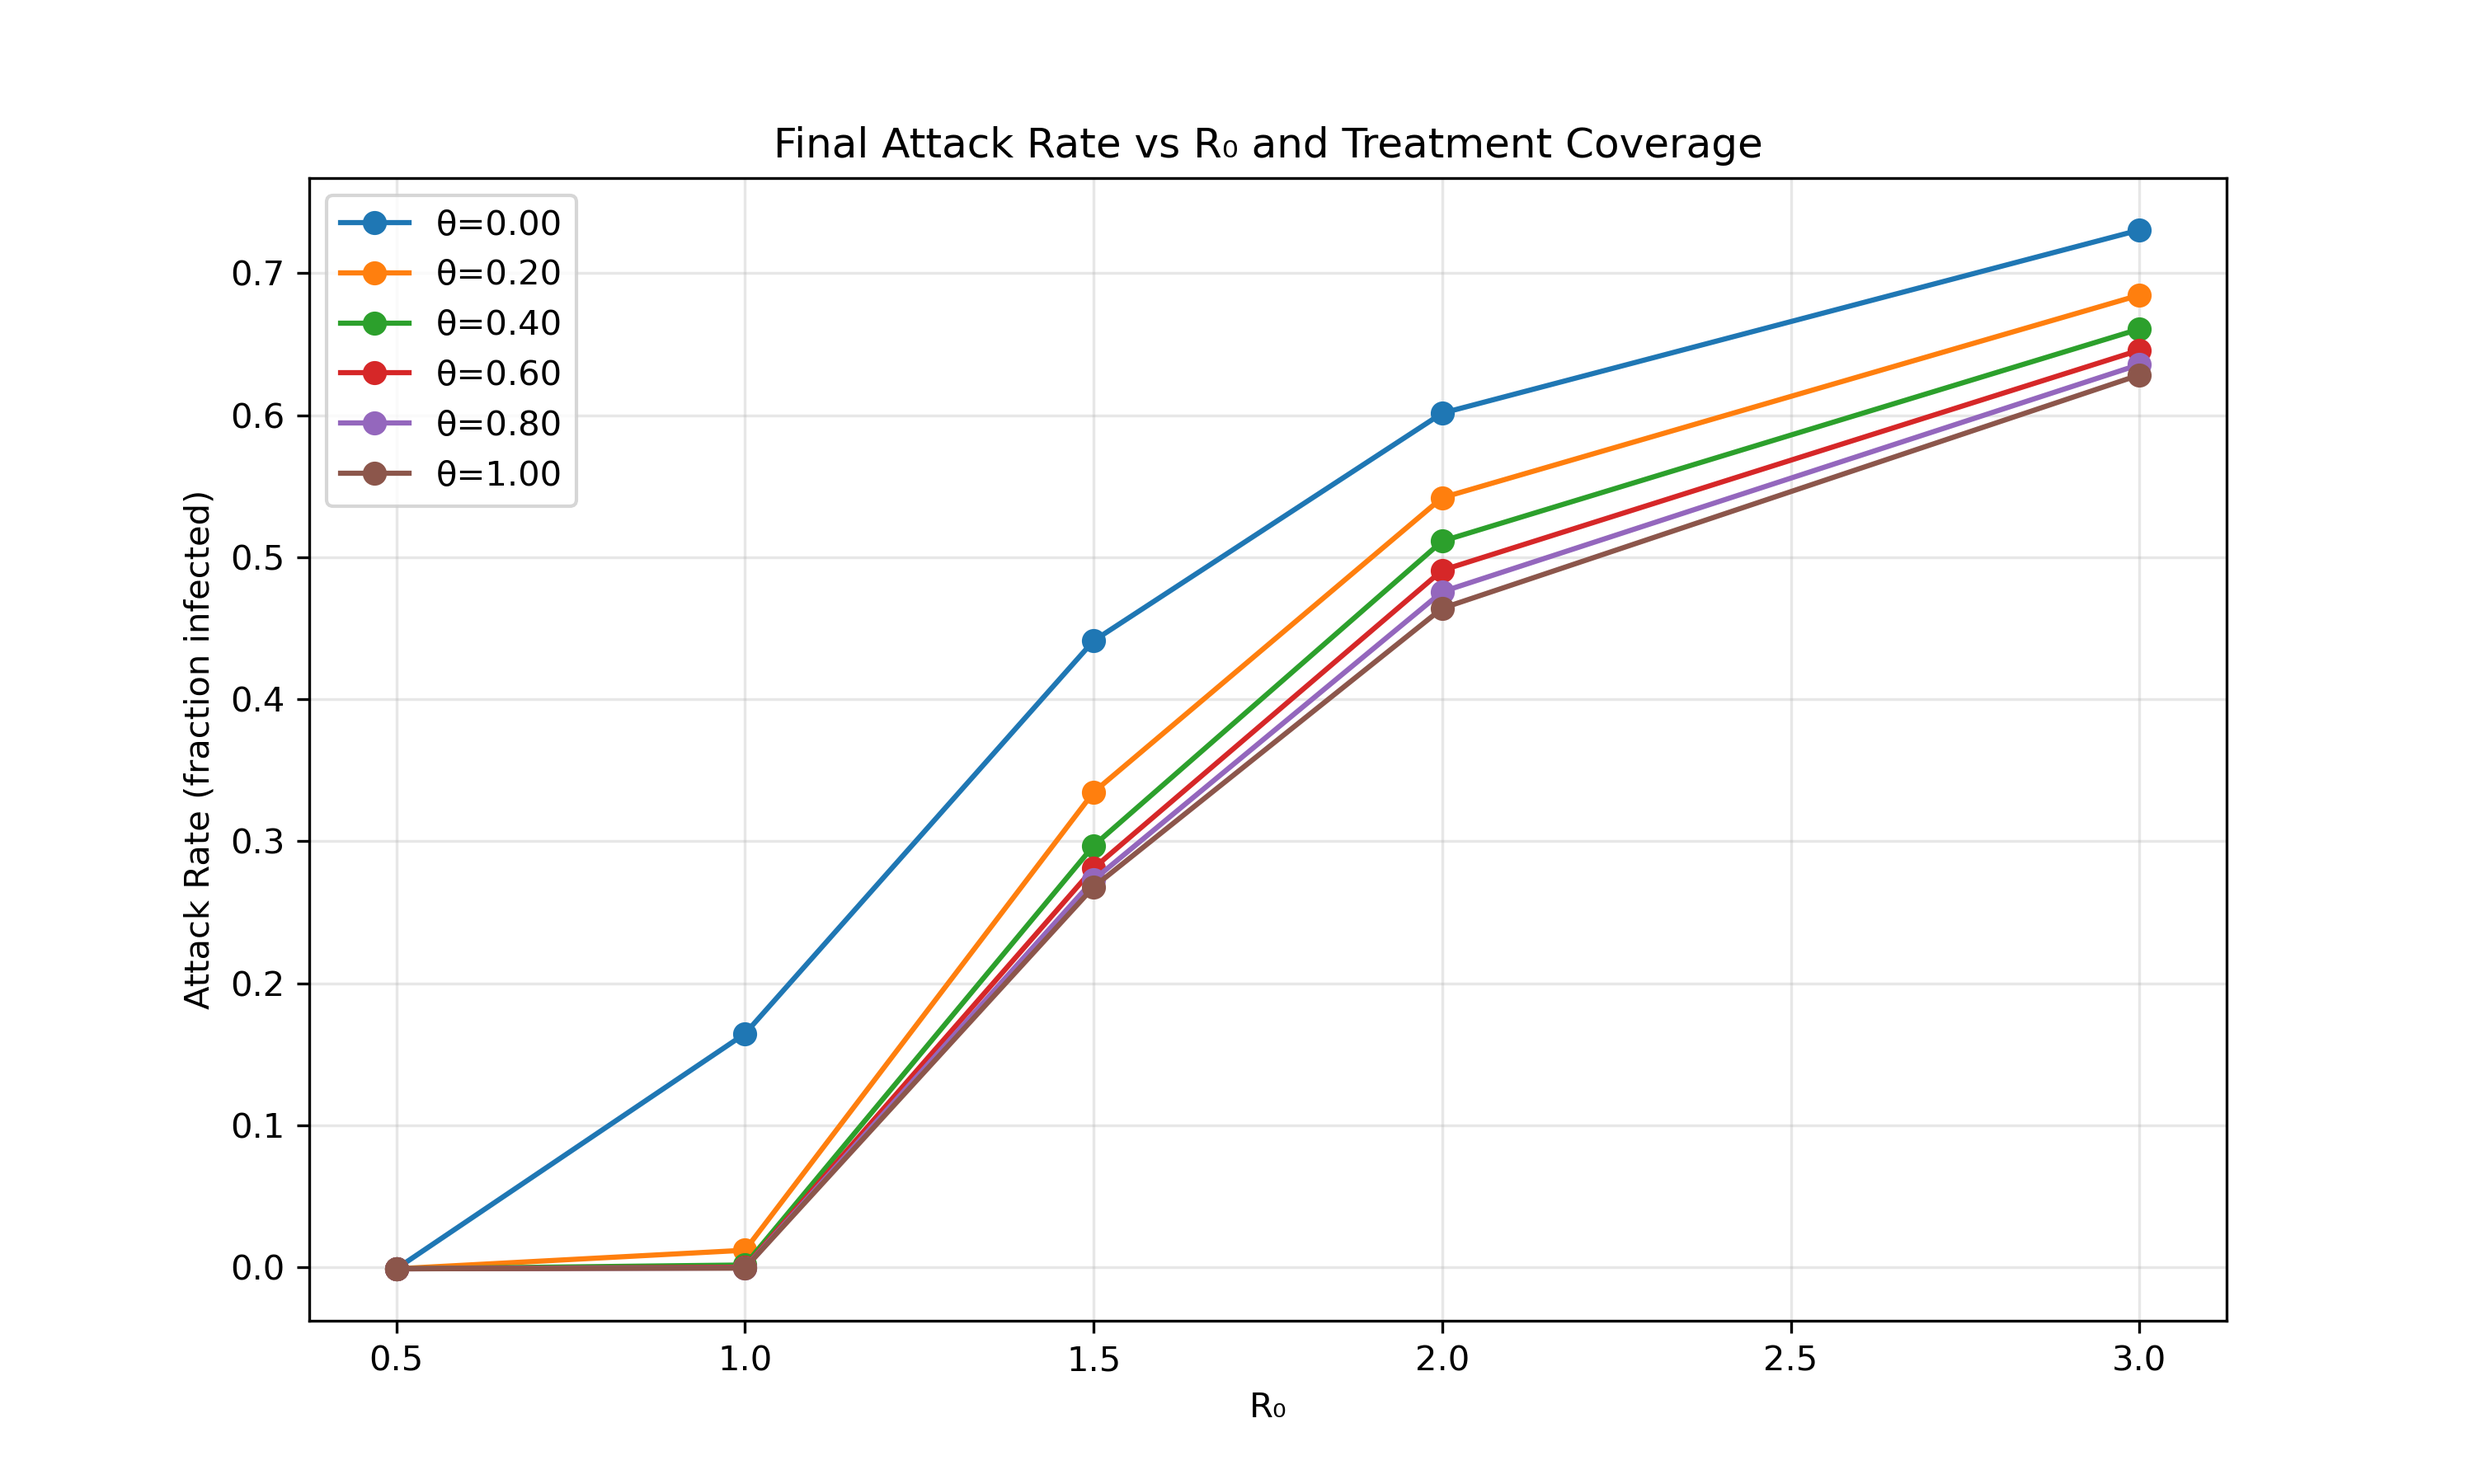
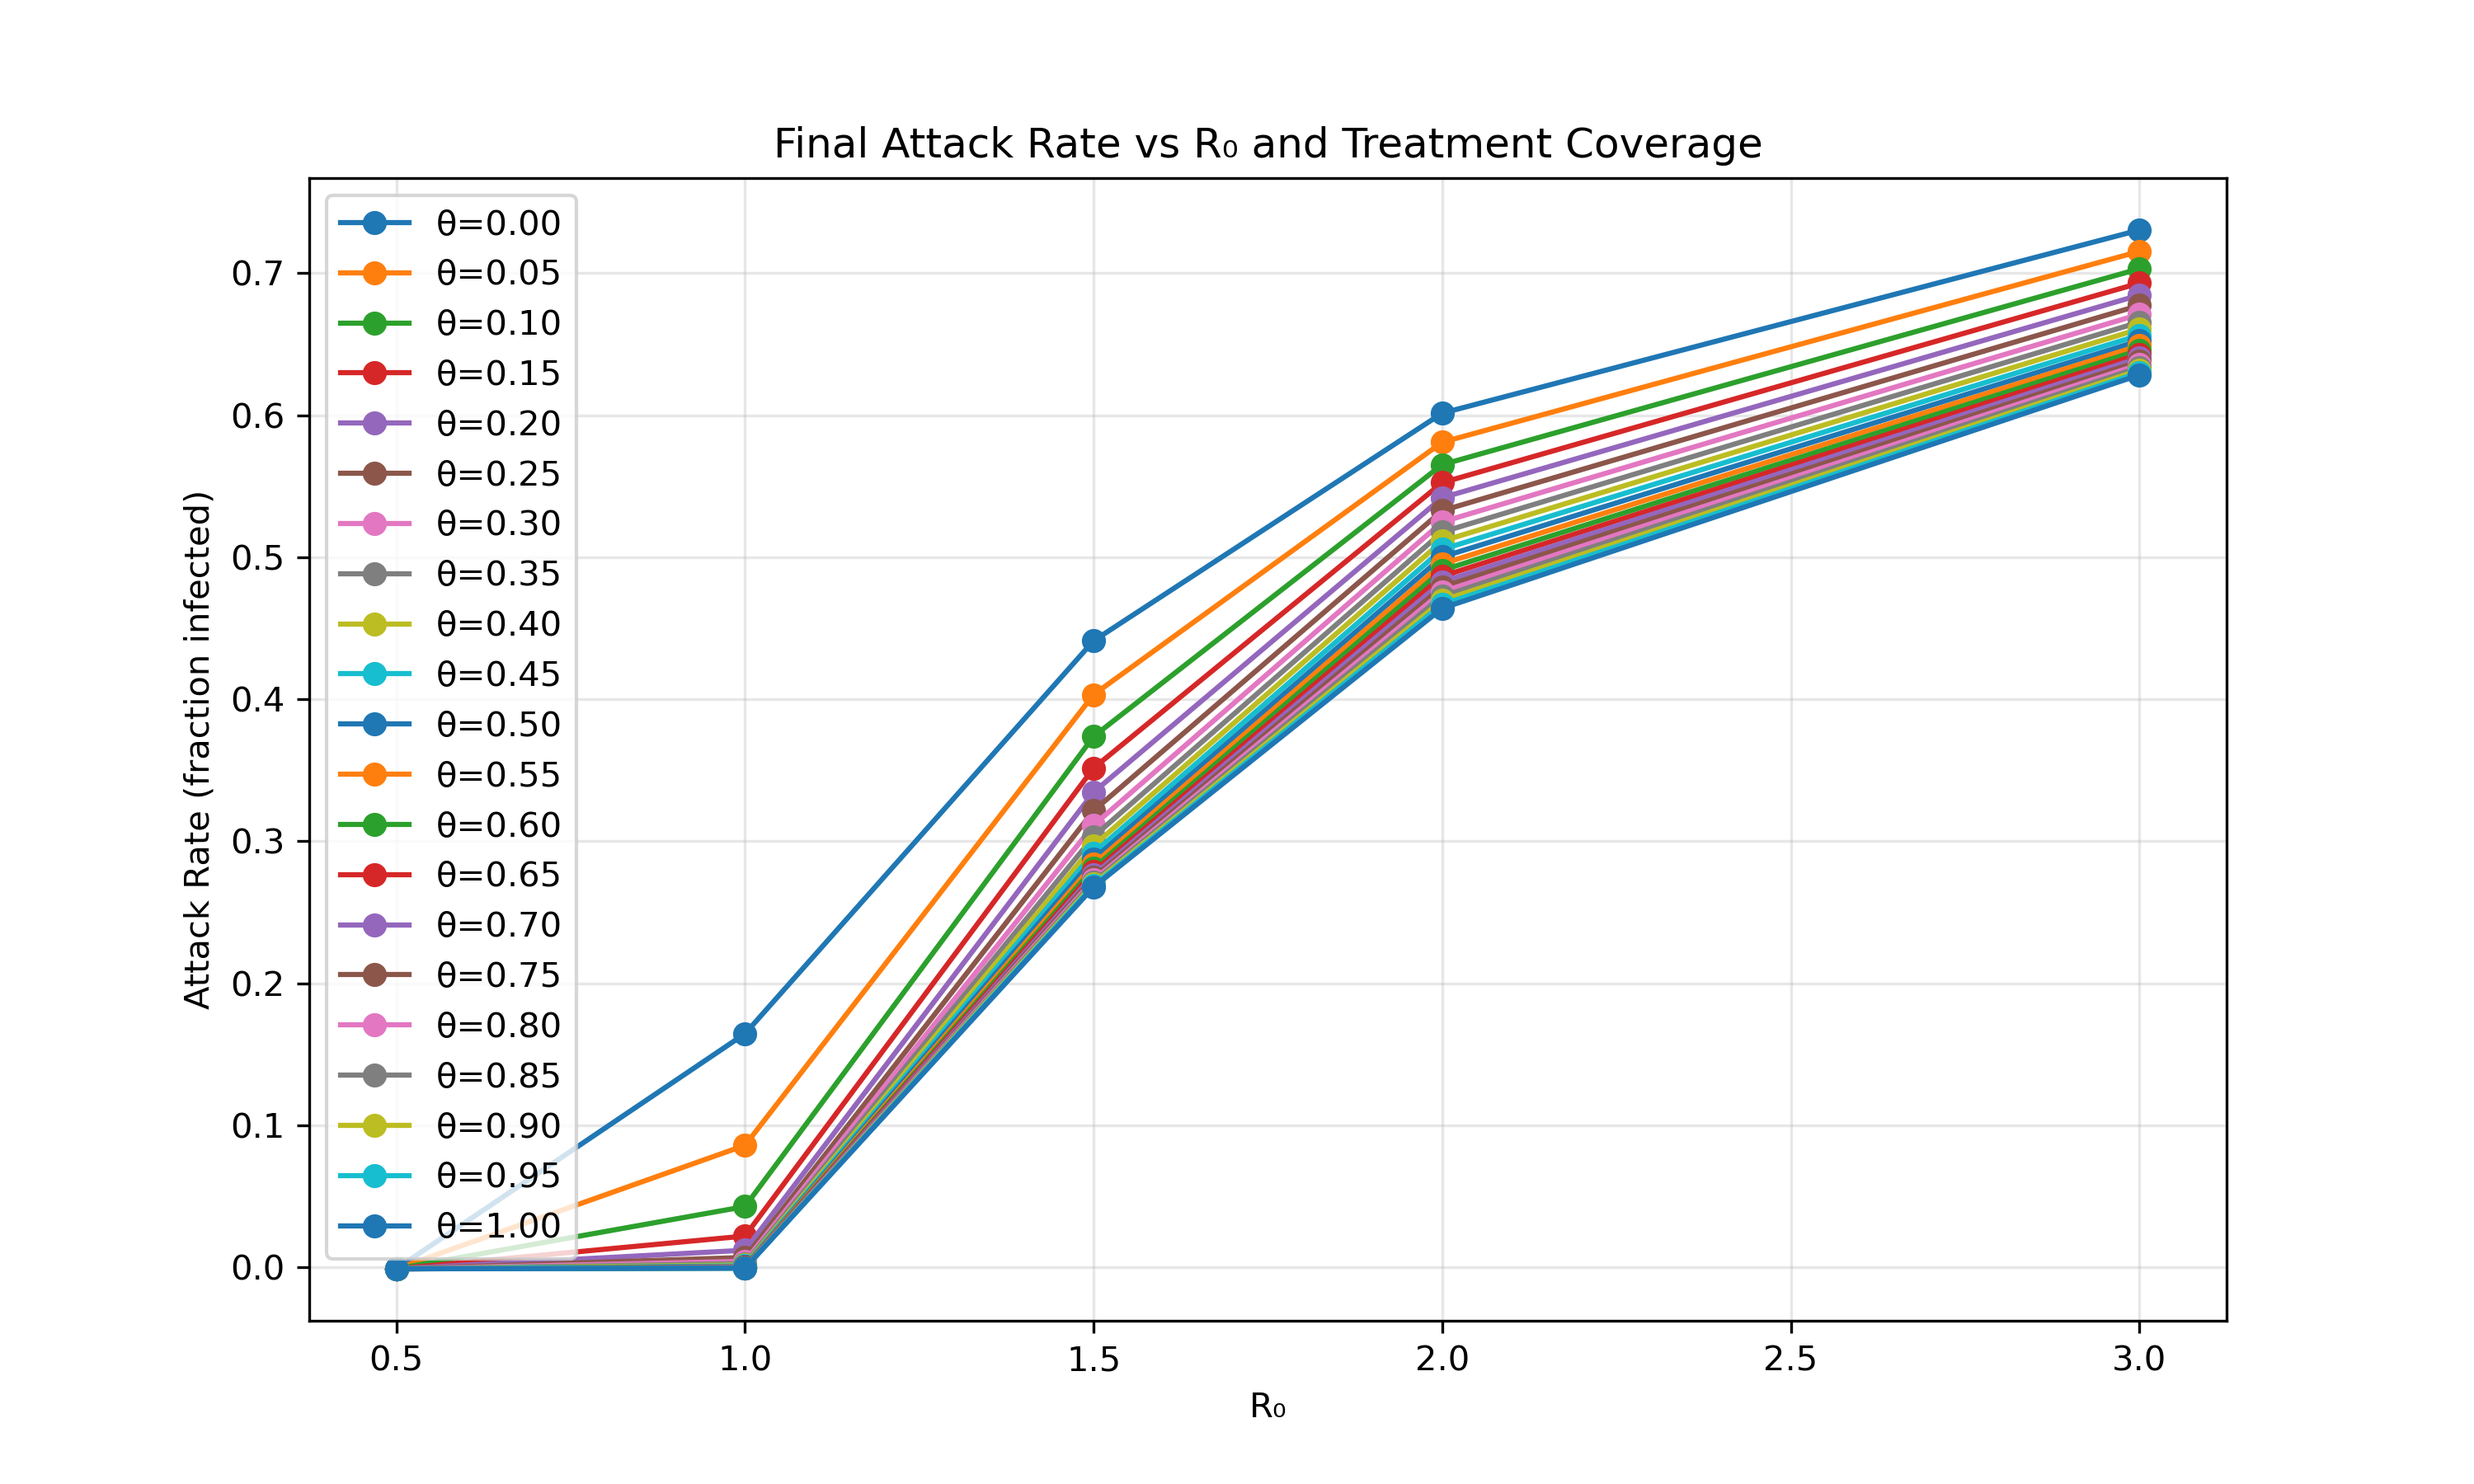
Update transmission parameter for high-virulence strain and enhance strain dominance analysis visualization

Changed region(s): [[0.124, 0.1556, 0.868, 0.8711]]

diff --git a/Scripts/MG_modelling/Parameter_testing.py b/Scripts/MG_modelling/Parameter_testing.py
@@ -48,8 +48,8 @@ pop_values = pop_values / pop_values.sum()  # Normalize to proportions
 theta = getattr(model_params, "theta", 0.5)
 # p_recover: multiplier applied to recovery rate for treated individuals; fallback 0.5
 p_recover = getattr(model_params, "p_recover", 0.5)
-# phi_transmission: multiplier for transmission of high-virulence strain; fallback 1.05
-phi_transmission = getattr(model_params, "phi_transmission", 1.05)
+# phi_transmission: multiplier for transmission of high-virulence strain; fallback 0.935
+phi_transmission = getattr(model_params, "phi_transmission", 0.935)
 # phi_recover: recovery modifier for high-virulence (applies to baseline recovery for high strain)
 phi_recover = getattr(model_params, "phi_recover", 0.85)
 # sigma: baseline recovery rate (1/days); fallback 1/10 day^-1
@@ -409,7 +409,6 @@ for theta_idx, theta_val in enumerate(theta_values):
     # Left subplot: Exposed High (Eh) time series across R0 values
     ax1 = plt.subplot(1, 2, 1)
     for i, R0_low_target in enumerate(r0_values):
-        # plot Eh trajectory for this R0 value with corresponding color
         ax1.plot(t, Eh_mat_theta[i, :], color=colors[i],
                  label=f"R0_low_target={R0_low_target:.2f}, R0_low_adj={R0_low_theta[i]:.2f}")
     ax1.set_xlabel("Time (days)")
@@ -421,7 +420,6 @@ for theta_idx, theta_val in enumerate(theta_values):
     # Right subplot: Exposed Low (El) time series across R0 values
     ax2 = plt.subplot(1, 2, 2)
     for i, R0_low_target in enumerate(r0_values):
-        # plot El trajectory for this R0 value
         ax2.plot(t, El_mat_theta[i, :], color=colors[i],
                  label=f"R0_low_target={R0_low_target:.2f}, R0_low_adj={R0_low_theta[i]:.2f}")
     ax2.set_xlabel("Time (days)")
@@ -551,35 +549,46 @@ plt.show()
 print("Heatmap analysis complete: check ./Figures/theta_p_recover_heatmap.png")
 
 #%% Strain competition analysis
+# Objective: quantify which strain dominates for theta∈[0,1] and p_recover∈[1,2]
+
+# Use fine grids strictly within requested ranges
+n_theta, n_p = 21, 21  # adjust resolution as needed
+theta_grid = np.linspace(0.0, 1.0, n_theta)         # [0.00 ... 1.00]
+p_recover_grid = np.linspace(1.0, 2.0, n_p)         # [1.00 ... 2.00]
+
 def compute_dominance_ratio(theta_val, p_val, R0_low_target):
-    """Returns ratio of high-strain to low-strain peak prevalence"""
+    """Returns ratio of peak high- to low-strain infectious prevalence."""
     beta_l_i = beta_from_r0(R0_low_target)
     parameters = (beta_l_i, birth_rate, death_rate, delta, delta_d, p_val,
                   phi_recover, phi_transmission, sigma, tau, theta_val)
-    
     sol = odeint(SEIRS_first_model, pop_values, t, args=(parameters,))
-    
-    # Total infectious high = Indh + Idh
-    I_high = sol[:, 2] + sol[:, 3]
-    # Total infectious low = Indl + Idl
-    I_low = sol[:, 6] + sol[:, 7]
-    
+    I_high = sol[:, 2] + sol[:, 3]  # Indh + Idh
+    I_low  = sol[:, 6] + sol[:, 7]  # Indl + Idl
     return I_high.max() / (I_low.max() + 1e-12)
 
-# Create dominance surface
 dominance_surface = np.zeros((len(theta_grid), len(p_recover_grid)))
 for i, theta_val in enumerate(theta_grid):
     for j, p_val in enumerate(p_recover_grid):
         dominance_surface[i, j] = compute_dominance_ratio(theta_val, p_val, 1.5)
 
 plt.figure(figsize=(8, 6))
-plt.imshow(dominance_surface, aspect='auto', cmap='RdBu_r', origin='lower', vmin=0, vmax=2)
-plt.colorbar(label='High/Low strain dominance ratio')
-plt.xlabel('p_recover')
-plt.ylabel('theta')
-plt.title('Strain Competition: High/Low Ratio\n(ratio > 1: high strain wins)')
+im = plt.imshow(dominance_surface, aspect='auto', cmap='RdBu_r', origin='lower',
+                vmin=0, vmax=2)
+plt.colorbar(im, label='High/Low strain dominance ratio')
+plt.xlabel('p_recover (1.0–2.0)')
+plt.ylabel('theta (0.0–1.0)')
+plt.title('Strain Competition: High/Low Ratio (ratio > 1: high strain wins)')
+
+# Clean ticks: show 6 evenly spaced labels across the actual value ranges
+x_idx = np.linspace(0, len(p_recover_grid) - 1, 6).round().astype(int)
+y_idx = np.linspace(0, len(theta_grid) - 1, 6).round().astype(int)
+plt.xticks(x_idx, [f'{p_recover_grid[k]:.2f}' for k in x_idx])
+plt.yticks(y_idx, [f'{theta_grid[k]:.2f}' for k in y_idx])
+
+plt.tight_layout()
 plt.savefig('./Figures/strain_dominance_heatmap.png', dpi=300)
 plt.show()
+print("Strain dominance analysis complete: check ./Figures/strain_dominance_heatmap.png")
 
 #%% Outbreak timing analysis
 def analyze_outbreak_timing(theta_val, R0_low_target):

diff --git a/Scripts/MG_modelling/Models/params.py b/Scripts/MG_modelling/Models/params.py
@@ -15,7 +15,7 @@ theta = 0.3            # fraction of exposed who will eventually take the drug (
 p_recover = 1.5        # treated recovery multiplier (absolute). Treated recovery rate = p_recover * sigma
 
 # Virulence modifiers
-phi_transmission = 1.05 # multiplier for high-virulence transmission (beta_h = phi_transmission * beta_l)
+phi_transmission = 0.935 # multiplier for high-virulence transmission (beta_h = phi_transmission * beta_l)
 phi_recover = 0.85     # modifier for recovery for high-virulence (if <1, recovery is slower)
 
 # Rates (per day)
